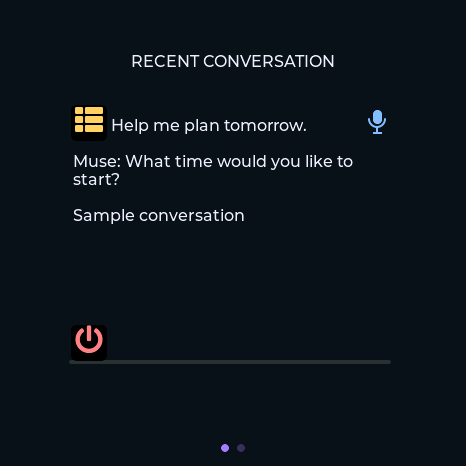
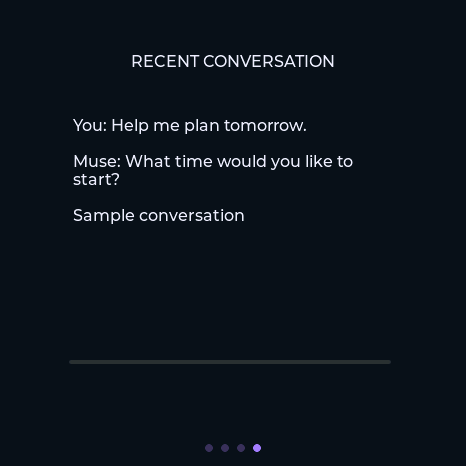
fix: keep navigation overlays clear of adaptation pages

diff --git a/tools/capture.py b/tools/capture.py
@@ -61,5 +61,12 @@ if __name__ == '__main__':
     parser = argparse.ArgumentParser(description=__doc__)
     parser.add_argument('port'); parser.add_argument('--page', type=int, choices=(1,2,3), required=True)
     parser.add_argument('--out', type=Path, required=True)
-    args = parser.parse_args(); args.out.write_bytes(png(*capture(args.port,args.page)))
+    args = parser.parse_args()
+    for attempt in range(3):
+        try:
+            frame = capture(args.port, args.page)
+            break
+        except (ValueError, TimeoutError):
+            if attempt == 2: raise
+    args.out.write_bytes(png(*frame))
     print('Saved sample UI capture:', args.out)

diff --git a/AGENTS.md b/AGENTS.md
@@ -1,0 +1,32 @@
+<p align="right"><a href="AGENTS.zh_CN.md">简体中文</a> · <strong>English</strong></p>
+
+# Agent instructions
+
+This is the standalone Muse Gadget SDK adaptation for M5Stack StopWatch,
+ESP32-S3 with 16 MB flash and 8 MB PSRAM, using ESP-IDF 6.0.1.
+Read README.md and docs/DEVELOPMENT.md before editing. Start with
+`git status --short --branch` and preserve unrelated user work.
+
+- Keep this repository limited to the StopWatch adaptation. Prepare an isolated
+  SDK with build.py; never modify a caller's checkout or vendor the entire SDK.
+- Pin upstream revisions and dependencies. Cover each patched upstream file
+  with its pristine SHA-256 in upstream-hashes.json and verify clean preparation.
+- Audio must remain local until a real release longer than two seconds. Short,
+  cancelled, failed or unreleased recordings must never enter upload or retry
+  queues. Never fall back to streaming when allocation fails.
+- Keep callbacks non-blocking, network/audio in workers, and LVGL in its task.
+  Keep testable state and protocols independent from ESP-IDF and add regression
+  tests for behavior changes. Do not disable failing tests or accept skips.
+- Run tools/validate.py with CJSON_SOURCE_DIR configured, then build and verify
+  firmware. Separate Build, Host tests, Device tests and Unverified in delivery.
+  A build does not prove hardware behavior.
+- Flash only with user authorization. Use the verified bundle and compatible
+  layout. Application updates at 0x10000 preserve NVS only with the expected
+  bootloader/partition layout. Never erase the whole chip without explicit consent.
+- Do not commit secrets, logs, NVS images, firmware/ELF/MAP files, upstream avatar
+  art, or other projects. Use sample-only documentation screenshots. Preserve
+  upstream license notices and consult NOTICE before redistributing binaries.
+- Maintain English .md documents with paired .zh_CN.md translations and reciprocal
+  links. Explain public behavior, compatibility and validation in PR descriptions.
+- Git writes and publication require user authorization; CI source releases are
+  triggered deliberately by a version tag after all gates pass.

diff --git a/AGENTS.zh_CN.md b/AGENTS.zh_CN.md
@@ -1,0 +1,25 @@
+<p align="right"><strong>简体中文</strong> · <a href="AGENTS.md">English</a></p>
+
+# Agent 开发指引
+
+这是独立的 Muse Gadget SDK／M5Stack StopWatch 适配，目标 ESP32-S3、
+16 MB Flash、8 MB PSRAM，使用 ESP-IDF 6.0.1。修改前阅读 README.zh_CN.md
+与 docs/DEVELOPMENT.zh_CN.md，先执行 `git status --short --branch` 并保留无关改动。
+
+- 仓库仅限 StopWatch 适配。用 build.py 准备隔离 SDK，不修改调用者的原始检出，
+  不把整套上游 SDK 放入仓库。
+- 固定上游与依赖版本，补丁涉及的每个原始文件都需在 upstream-hashes.json 中
+  记录未修改 SHA-256，并用干净源码验证准备流程。
+- 录音必须保留本地，实际按住超过两秒并松手后才能上传。短按、取消、失败和
+  未松手的录音不得进入上传或重试队列，内存不足不得退回实时发送。
+- 按键回调不阻塞，音频和网络交给工作任务，LVGL 在其任务访问。可测试状态和
+  协议独立于 ESP-IDF，行为修改增加回归测试，不跳过或禁用失败测试。
+- 配置 CJSON_SOURCE_DIR 后运行 tools/validate.py，再构建并核验固件。分别报告
+  构建、主机测试、真机测试和未验收项，构建不等于硬件验证。
+- 刷写必须获得用户授权，使用已核验产物和兼容布局。只有 bootloader／分区兼容时，
+  从 0x10000 更新应用才能保留 NVS；整片擦除需明确同意。
+- 不提交秘密、日志、NVS 镜像、固件／ELF／MAP、上游头像或无关项目。截图仅用
+  示例数据，保留上游版权，分发二进制前查看 NOTICE。
+- 默认 .md 使用英文并配套 .zh_CN.md 与双向语言链接；PR 说明最终行为、兼容性
+  和验证证据。
+- Git 写入和公开发布需用户授权；源码发布在全部门禁通过后由版本标签触发。

diff --git a/README.md b/README.md
@@ -2,6 +2,8 @@
 
 # Muse StopWatch
 
+[![CI](https://github.com/acrostm/muse-stopwatch/actions/workflows/ci.yml/badge.svg)](https://github.com/acrostm/muse-stopwatch/actions/workflows/ci.yml)
+
 A community adaptation of [Muse Gadget SDK](https://github.com/facebookincubator/muse-gadget-sdk) for **M5Stack StopWatch (ESP32-S3, 16 MB flash, 8 MB PSRAM)**. It adds a browser setup portal, Doubao Speech Generation 2.0 playback, named voice selection and preview, four device pages, and cancellable push-to-talk.
 
 This repository contains the adaptation and a patch against one pinned SDK revision, rather than a fork of every upstream device. It does not contain other AI Passport applications, private configuration, build outputs, or upstream avatar assets. It is independent of Meta and M5Stack.
@@ -76,9 +78,10 @@ On Linux replace the serial port with the detected `/dev/ttyACM*` port. Do not w
 ## Development and validation
 
 ```bash
-# Fetch the pinned upstream checkout or prepare a build first, then:
-export CJSON_SOURCE_DIR=/tmp/muse-stopwatch-sdk/esp32/managed_components/espressif__cjson/cJSON
-python3 tools/validate.py
+# Host tests do not require the ESP-IDF toolchain.
+python3 tools/fetch_test_deps.py /tmp/muse-stopwatch-cjson
+export CJSON_SOURCE_DIR=/tmp/muse-stopwatch-cjson
+CC=clang python3 tools/validate.py
 # Validate a completed firmware build as well:
 python3 tools/validate.py --firmware /tmp/muse-stopwatch-sdk/esp32/build-stopwatch
 ```
